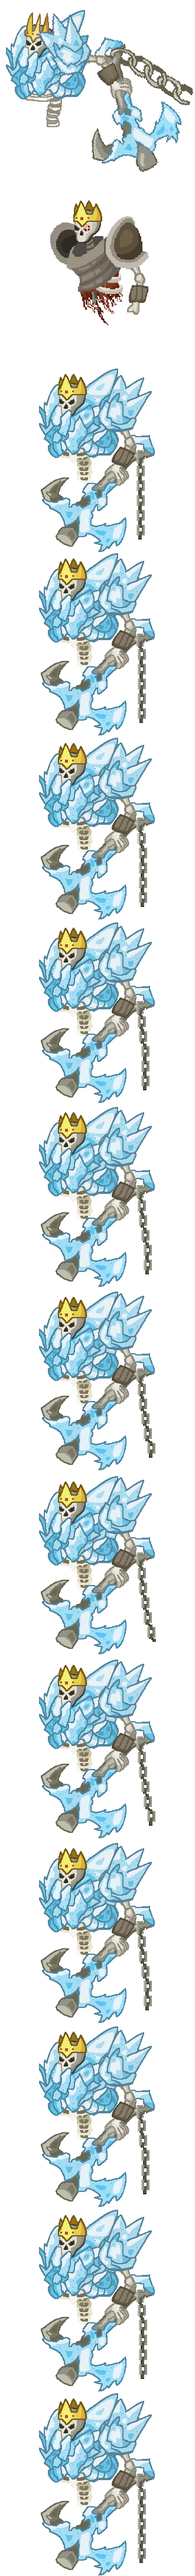
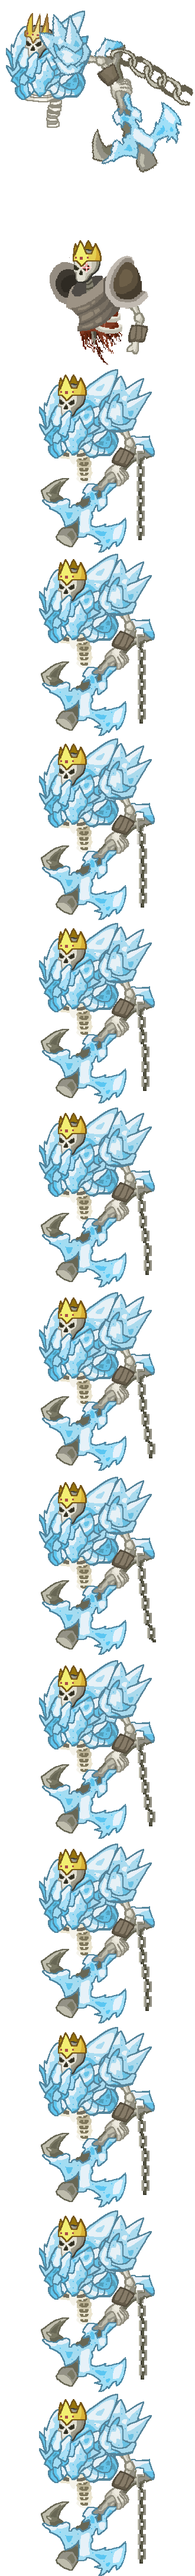
Made Rognir's hitbox in stage two smaller.

diff --git a/NPCs/Rognir/RognirBoss.cs b/NPCs/Rognir/RognirBoss.cs
@@ -498,7 +498,9 @@ namespace Rognir.NPCs.Rognir
 		{
 			if (anchorID == 0)
 			{
-				anchorID = NPC.NewNPC((int)npc.Center.X, (int)npc.Center.Y, NPCType<RognirBossAnchor>(), 0, npc.whoAmI);
+				//anchorID = NPC.NewNPC((int)npc.Center.X, (int)npc.Center.Y, NPCType<RognirBossAnchor>(), 0, npc.whoAmI);
+				npc.height = 191;
+				npc.width = 168;
 			}
 		}
 
